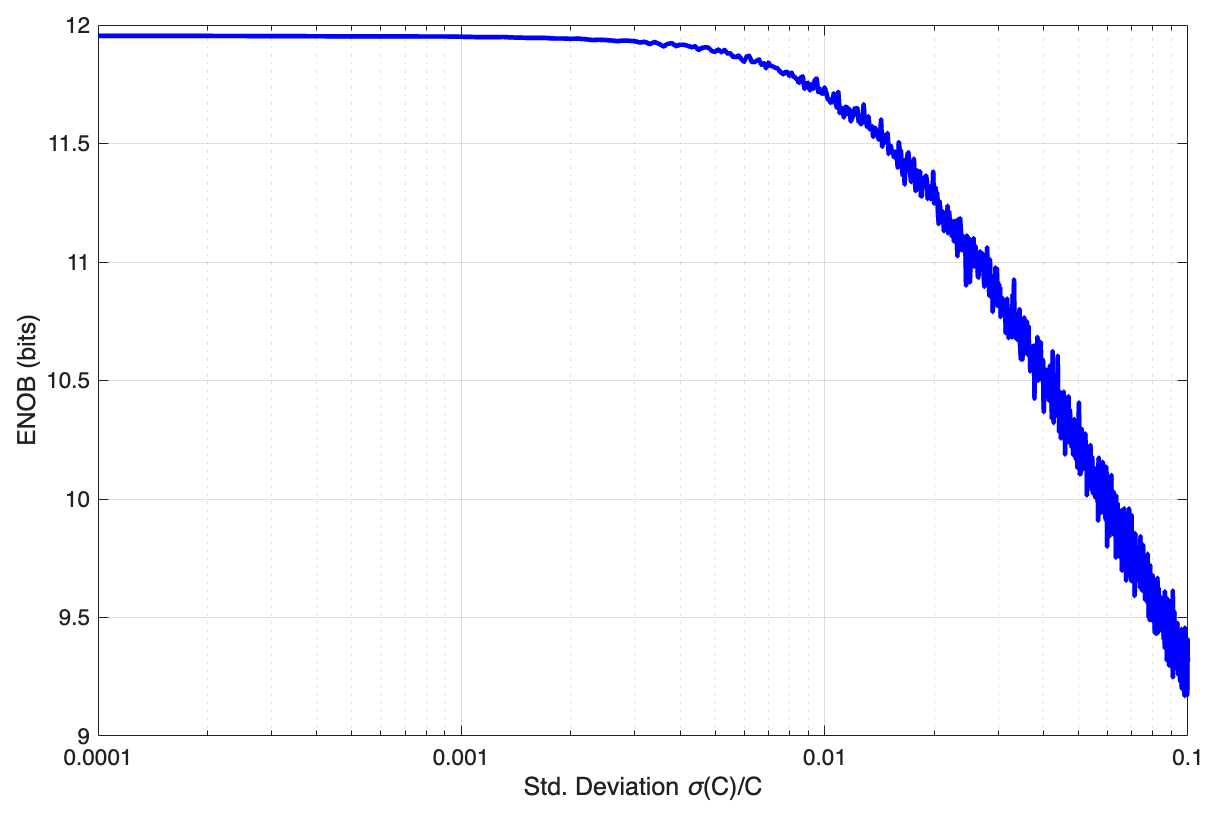
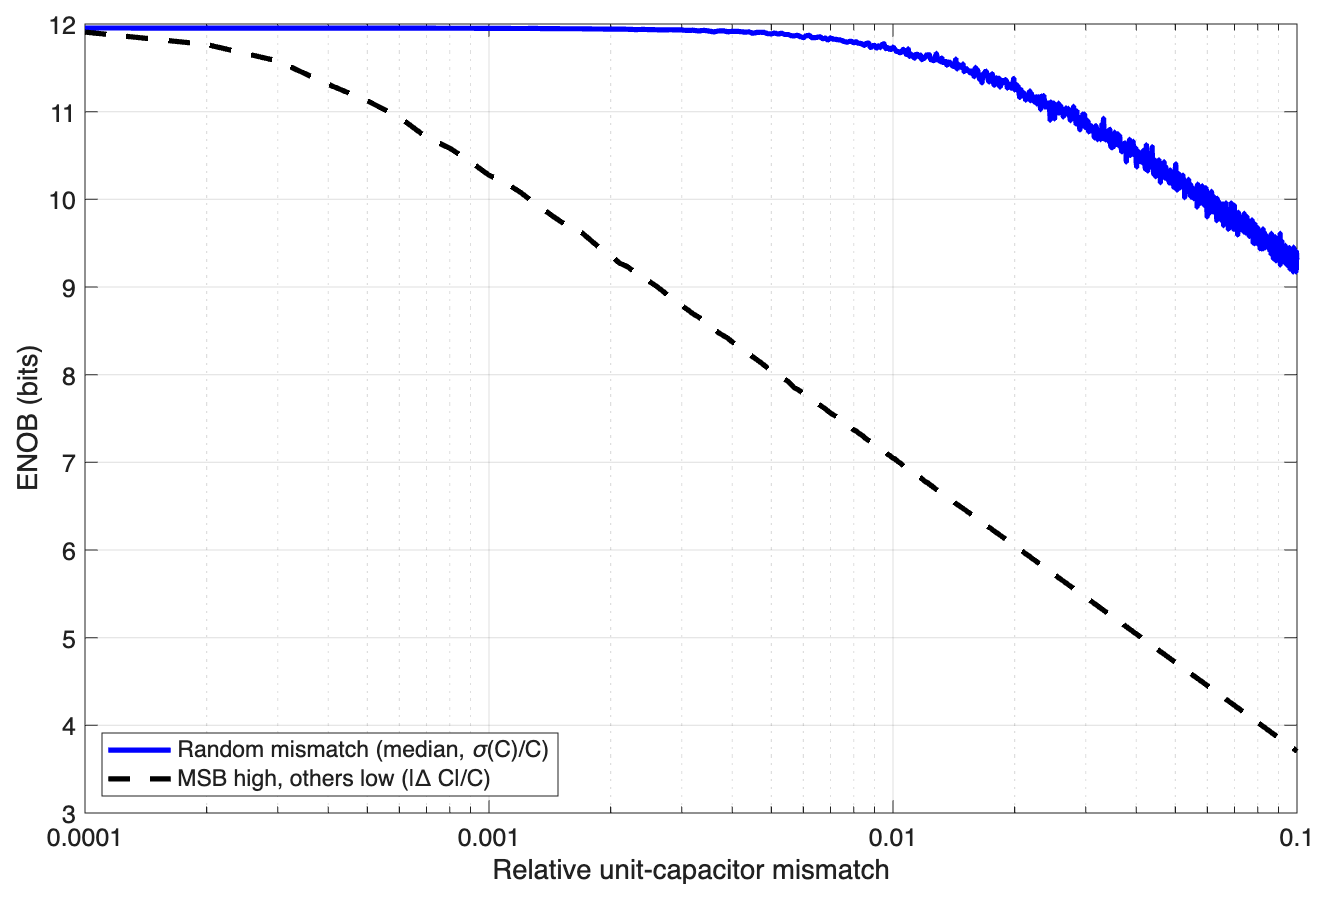
Compare random and worst-case MSB capacitor mismatch

diff --git a/function/plotting/plotEnobVsMismatch.m b/function/plotting/plotEnobVsMismatch.m
@@ -1,31 +1,53 @@
 function plotEnobVsMismatch()
-  mismatchStdValues = 0.0001 : 0.0001 : 0.1;
-  arrayCount = 100;
-  enobBits = nan( arrayCount, numel( mismatchStdValues ) );
+  mismatchValues = 0.0001 : 0.0001 : 0.1;
 
-  for iLevel = 1 : numel( mismatchStdValues )
-    p = createSimulationConfiguration( "binary", mismatchStdValues( iLevel ) );
+  %% Random capacitor mismatch
+  arrayCount = 100;
+  enobBits = nan( arrayCount, numel( mismatchValues ) );
+
+  for iLevel = 1 : numel( mismatchValues )
+    p = createSimulationConfiguration( "binary", mismatchValues( iLevel ) );
     inputVoltageSamples = generateSineSamples( p );
     for iArray = 1 : arrayCount
       capacitorArray = synthesizeCDAC( p );
-      binaryCodes = nan( p.sampleCount, p.resolutionBits );
-      for iSample = 1 : p.sampleCount
-        binaryCodes( iSample, : ) = cbwSarADC( capacitorArray, p, inputVoltageSamples( iSample ) );
-      end
-      outputVolts = idealDAC( binaryCodes, p );
-      spectrum = processAdcData( outputVolts, p );
-      enobBits( iArray, iLevel ) = spectrum.enobBits;
+      enobBits( iArray, iLevel ) = evaluateEnob( capacitorArray, p, inputVoltageSamples );
     end
   end
-
   medianEnobBits = median( enobBits, 1 );
+
+  %% Worst-case MSB weight
+  p = createSimulationConfiguration( "binary", 0 );
+  nominalArray = synthesizeCDAC( p );
+  inputVoltageSamples = generateSineSamples( p );
+  msbHighEnobBits = nan( size( mismatchValues ) );
+
+  for iLevel = 1 : numel( mismatchValues )
+    mismatch = mismatchValues( iLevel );
+    capacitorArray.capacitanceFemtofarads = nominalArray.capacitanceFemtofarads * ( 1 - mismatch );
+    capacitorArray.capacitanceFemtofarads( 1 ) = nominalArray.capacitanceFemtofarads( 1 ) * ( 1 + mismatch );
+    capacitorArray.totalCapacitanceFemtofarads = sum( capacitorArray.capacitanceFemtofarads );
+    msbHighEnobBits( iLevel ) = evaluateEnob( capacitorArray, p, inputVoltageSamples );
+  end
+
+  %% Plot both ENOB curves
   figure( 'Color', 'w', 'Position', [ 100, 100, 1000, 620 ] );
-  semilogx( mismatchStdValues, medianEnobBits, 'b-', 'LineWidth', 2.5 );
-  xlabel( 'Std. Deviation \sigma(C)/C' );
+  semilogx( mismatchValues, medianEnobBits, 'b-', mismatchValues, msbHighEnobBits, 'k--', 'LineWidth', 2.5 );
+  xlabel( 'Relative unit-capacitor mismatch' );
   ylabel( 'ENOB (bits)' );
-  xlim( [ mismatchStdValues( 1 ), mismatchStdValues( end ) ] );
+  xlim( [ mismatchValues( 1 ), mismatchValues( end ) ] );
   xticks( [ 0.0001, 0.001, 0.01, 0.1 ] );
   xticklabels( { '0.0001', '0.001', '0.01', '0.1' } );
   set( gca, 'FontSize', 12 );
   grid on;
+  legend( 'Random mismatch (median, \sigma(C)/C)', 'MSB high, others low (|\Delta C|/C)', 'Location', 'southwest' );
+end
+
+function enobBits = evaluateEnob( capacitorArray, p, inputVoltageSamples )
+  binaryCodes = nan( p.sampleCount, p.resolutionBits );
+  for iSample = 1 : p.sampleCount
+    binaryCodes( iSample, : ) = cbwSarADC( capacitorArray, p, inputVoltageSamples( iSample ) );
+  end
+  outputVolts = idealDAC( binaryCodes, p );
+  spectrum = processAdcData( outputVolts, p );
+  enobBits = spectrum.enobBits;
 end

diff --git a/README.md b/README.md
@@ -5,6 +5,6 @@ Simulate a 12-bit SAR ADC and see how capacitor mismatch affects its effective n
 Add `sim-config`, `models`, `function` and `testbench` (including subfolders) to the MATLAB path.
 
 - Run [simADC.m](testbench/simADC.m) to view the spectrum, SNDR and ENOB. Line 1 selects the binary or bridge DAC and the mismatch level.
-- Run [plotEnobVsMismatch.m](function/plotting/plotEnobVsMismatch.m) to plot ENOB versus mismatch for the binary DAC.
+- Run [plotEnobVsMismatch.m](function/plotting/plotEnobVsMismatch.m) to compare binary DAC mismatch cases. At 1% unit-capacitor standard deviation, 100 random arrays gave a median of 11.74 bits. Setting the MSB 1% high and all other capacitors 1% low gave 7.05 bits.
 
 Requires Communications Toolbox, Statistics and Machine Learning Toolbox, and Richard Schreier's Delta Sigma Toolbox.
